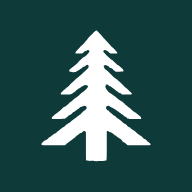
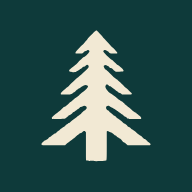
iPhone: Dreirad fährt beim Start über die Tanne auch mit „Bewegung reduzieren“; airbnbs beim Rauszoomen kleiner; Tanne im App-Symbol cremeweiß
- Start per dreifachem Tippen auf die Tanne ignoriert prefers-reduced-motion
  (automatische Fahrten respektieren es weiterhin)
- Unterkünfte beim Rauszoomen mindestens 40 % statt 75 % der Originalgröße,
  Dreirad mindestens 50 %
- App-Symbol: Tanne #f2e9d4 statt Weiß; Symbol-Links mit Versionsnummer

Claude-Session: https://claude.ai/code/session_012QWnv4imAaXa5xTCGdwW17

Changed region(s): [[0.2188, 0.1562, 0.7812, 0.8438]]

diff --git a/index.html b/index.html
@@ -11,14 +11,14 @@
   <meta name="robots" content="noindex, nofollow">
   <!-- Neue Version veröffentlicht? ?v=… an CSS/JS/Plan-Dateien hochzählen, damit Browser sofort neu laden -->
   <title>Platzverwaltung · Waldcamping Hesedorf</title>
-  <link rel="icon" href="assets/icon.svg" type="image/svg+xml">
-  <link rel="apple-touch-icon" href="assets/apple-touch-icon.png">
-  <link rel="icon" href="assets/icon-192.png" sizes="192x192" type="image/png">
+  <link rel="icon" href="assets/icon.svg?v=20261016-17" type="image/svg+xml">
+  <link rel="apple-touch-icon" href="assets/apple-touch-icon.png?v=20261016-17">
+  <link rel="icon" href="assets/icon-192.png?v=20261016-17" sizes="192x192" type="image/png">
   <link rel="preconnect" href="https://fonts.googleapis.com">
   <link rel="preconnect" href="https://fonts.gstatic.com" crossorigin>
   <link rel="stylesheet" href="https://fonts.googleapis.com/css2?family=Inter:wght@400;500;600;700&display=swap">
   <link rel="stylesheet" href="vendor/leaflet/leaflet.css">
-  <link rel="stylesheet" href="css/style.css?v=20261016-16">
+  <link rel="stylesheet" href="css/style.css?v=20261016-17">
 </head>
 <body>
   <header class="topbar">
@@ -103,15 +103,15 @@
   <script src="vendor/leaflet/leaflet.js"></script>
   <script src="vendor/polygon-clipping/polygon-clipping.umd.min.js"></script>
   <script src="vendor/supabase/supabase.js"></script>
-  <script src="js/plan-data.js?v=20261016-16"></script>
-  <script src="js/config.js?v=20261016-16"></script>
-  <script src="js/cloud.js?v=20261016-16"></script>
-  <script src="js/auth.js?v=20261016-16"></script>
-  <script src="js/data.js?v=20261016-16"></script>
-  <script src="js/photos.js?v=20261016-16"></script>
-  <script src="js/airbnb.js?v=20261016-16"></script>
-  <script src="js/map.js?v=20261016-16"></script>
-  <script src="js/easter.js?v=20261016-16"></script>
-  <script src="js/app.js?v=20261016-16"></script>
+  <script src="js/plan-data.js?v=20261016-17"></script>
+  <script src="js/config.js?v=20261016-17"></script>
+  <script src="js/cloud.js?v=20261016-17"></script>
+  <script src="js/auth.js?v=20261016-17"></script>
+  <script src="js/data.js?v=20261016-17"></script>
+  <script src="js/photos.js?v=20261016-17"></script>
+  <script src="js/airbnb.js?v=20261016-17"></script>
+  <script src="js/map.js?v=20261016-17"></script>
+  <script src="js/easter.js?v=20261016-17"></script>
+  <script src="js/app.js?v=20261016-17"></script>
 </body>
 </html>

diff --git a/js/easter.js b/js/easter.js
@@ -122,10 +122,11 @@
 
   const Easter = {
     active: null,
-    run(name = 'gross') {
+    // force: absichtlich gestartet (Tanne) → auch bei „Bewegung reduzieren“ fahren
+    run(name = 'gross', force = false) {
       const MapView = window.MapView;
       if (this.active || !MapView || !MapView.map || document.hidden) return false;
-      if (window.matchMedia('(prefers-reduced-motion: reduce)').matches) return false;
+      if (!force && window.matchMedia('(prefers-reduced-motion: reduce)').matches) return false;
       const map = MapView.map;
       const route = ROUTES[name] || ROUTES.gross;
       const path = resample(smooth(route.points, 4), 2);
@@ -176,7 +177,7 @@
         if (!map._animatingZoom) {
           const z = map.getZoom();
           const pt = map.project(L.latLng(H - p[1], p[0]), z).subtract(map.getPixelOrigin());
-          const k = Math.max(0.75, Math.pow(2, z));   // echte Größe, beim Rauszoomen nicht kleiner als ca. 12 px
+          const k = Math.max(0.5, Math.pow(2, z));   // echte Größe, beim Rauszoomen nicht kleiner als ca. 8 px
           const w = 16 * k, h = 8 * k;
           if (w !== this._w) { el.style.width = w + 'px'; el.style.height = h + 'px'; el.style.margin = `${-h / 2}px 0 0 ${-w / 2}px`; this._w = w; }
           el.style.transform = `translate3d(${pt.x.toFixed(2)}px, ${pt.y.toFixed(2)}px, 0) rotate(${angle.toFixed(2)}deg)`;
@@ -273,7 +274,7 @@
       if (logo) logo.addEventListener('click', () => {
         const now = Date.now();
         taps = taps.filter((t) => now - t < 900).concat(now);
-        if (taps.length >= 3) { taps = []; this.honk(); setTimeout(() => this.run('gross'), 300); }
+        if (taps.length >= 3) { taps = []; this.honk(); setTimeout(() => this.run('gross', true), 300); }
       });
       this.schedule(true);
     },

diff --git a/js/map.js b/js/map.js
@@ -173,8 +173,8 @@
       const pane = this.map.getPane('markerPane');
       // Kästen/Tanks: ab Zoom 0.5 volle Größe, darunter kleiner (mind. 28 %)
       const pin = Math.max(0.28, Math.min(1, 0.55 * Math.pow(2, z * 0.8) + 0.05)).toFixed(3);
-      // Unterkünfte in Originalgröße (1 Kartenpixel = 0,2 m), beim Rauszoomen nicht kleiner als 75 %
-      const unit = Math.max(0.75, Math.pow(2, z)).toFixed(3);
+      // Unterkünfte in Originalgröße (1 Kartenpixel = 0,2 m), beim Rauszoomen nicht kleiner als 40 %
+      const unit = Math.max(0.4, Math.pow(2, z)).toFixed(3);
       if (pane._pinS !== pin) { pane.style.setProperty('--pin-s', pin); pane._pinS = pin; }
       if (pane._unitS !== unit) { pane.style.setProperty('--unit-s', unit); pane._unitS = unit; }
     },

diff --git a/css/style.css b/css/style.css
@@ -78,8 +78,8 @@ button, input, select, textarea { font: inherit; color: inherit; }
   --wm-h: 18px;
   display: block; flex: none; height: var(--wm-h); width: calc(var(--wm-h) * 12.132); max-width: 100%;
   background: currentColor;
-  -webkit-mask: url(../assets/wordmark.svg?v=20261016-16) left center / contain no-repeat;
-  mask: url(../assets/wordmark.svg?v=20261016-16) left center / contain no-repeat;
+  -webkit-mask: url(../assets/wordmark.svg?v=20261016-17) left center / contain no-repeat;
+  mask: url(../assets/wordmark.svg?v=20261016-17) left center / contain no-repeat;
 }
 .brand-text small { font-size: .62rem; opacity: .8; letter-spacing: .14em; text-transform: uppercase; margin-top: 4px; }
 

diff --git a/js/config.js b/js/config.js
@@ -8,8 +8,8 @@
 window.APP_CONFIG = {
   map: {
     // Erzeugt mit tools/plan_import.py aus dem AutoCAD-Lageplan (siehe README)
-    url: 'assets/platzplan.png?v=20261016-16',  // gerendert aus platzplan.svg (tools/render_plan.js)
-    aerial: 'assets/luftbild.jpg?v=20261016-16',
+    url: 'assets/platzplan.png?v=20261016-17',  // gerendert aus platzplan.svg (tools/render_plan.js)
+    aerial: 'assets/luftbild.jpg?v=20261016-17',
     width: (window.PLAN_DATA && window.PLAN_DATA.width) || 1755,
     height: (window.PLAN_DATA && window.PLAN_DATA.height) || 1765,
     // Maßstab: wie viele Meter entspricht ein Kartenpixel?
